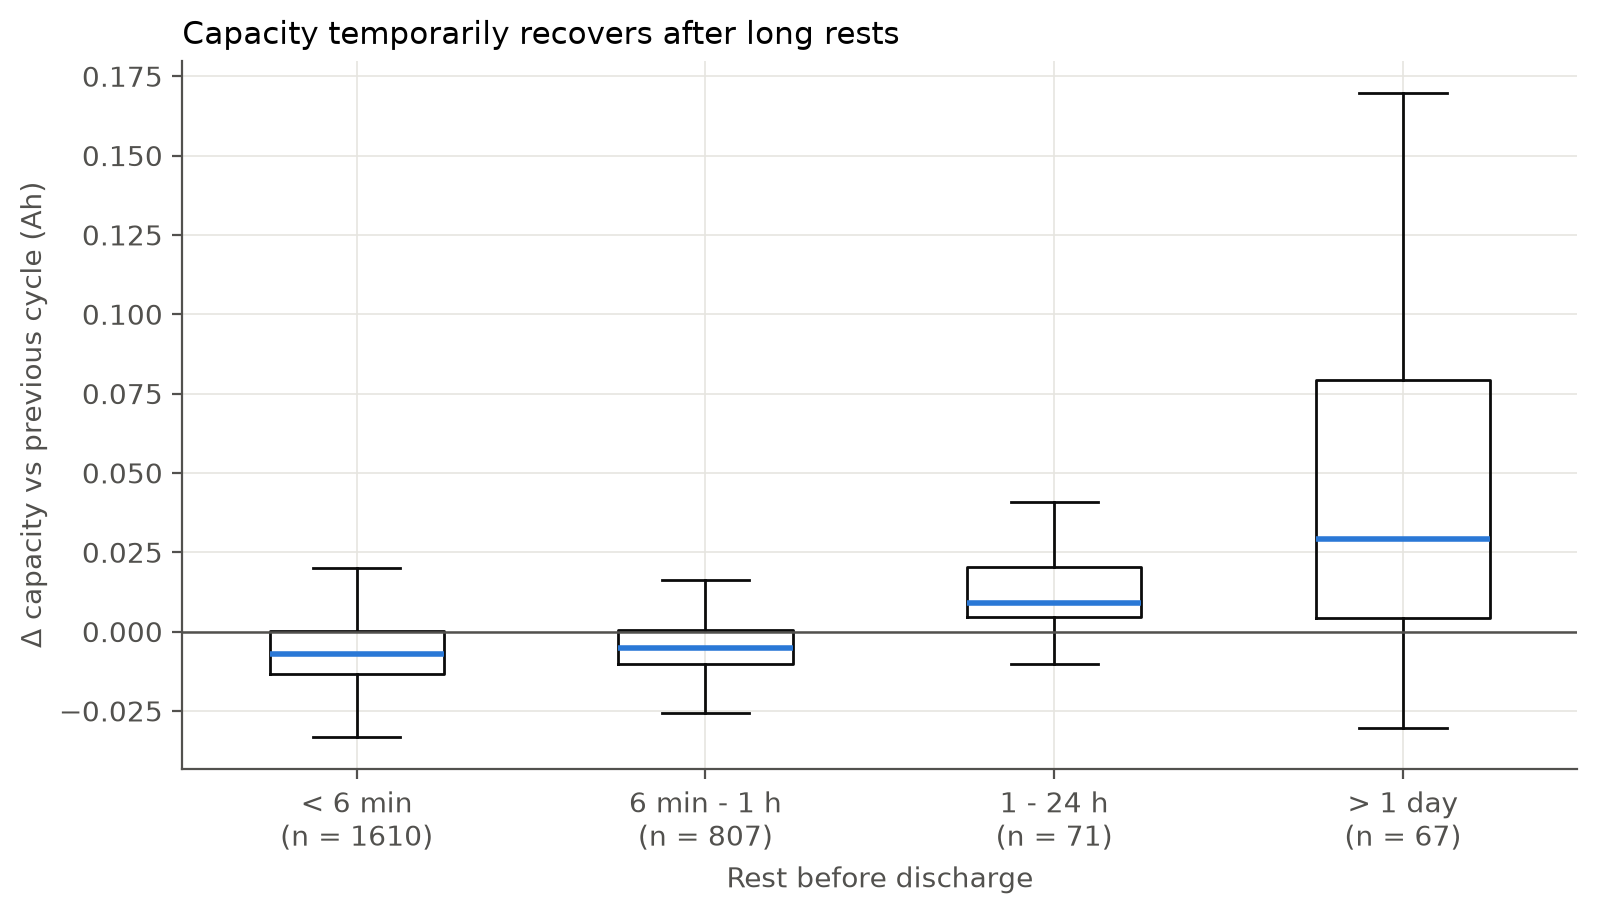
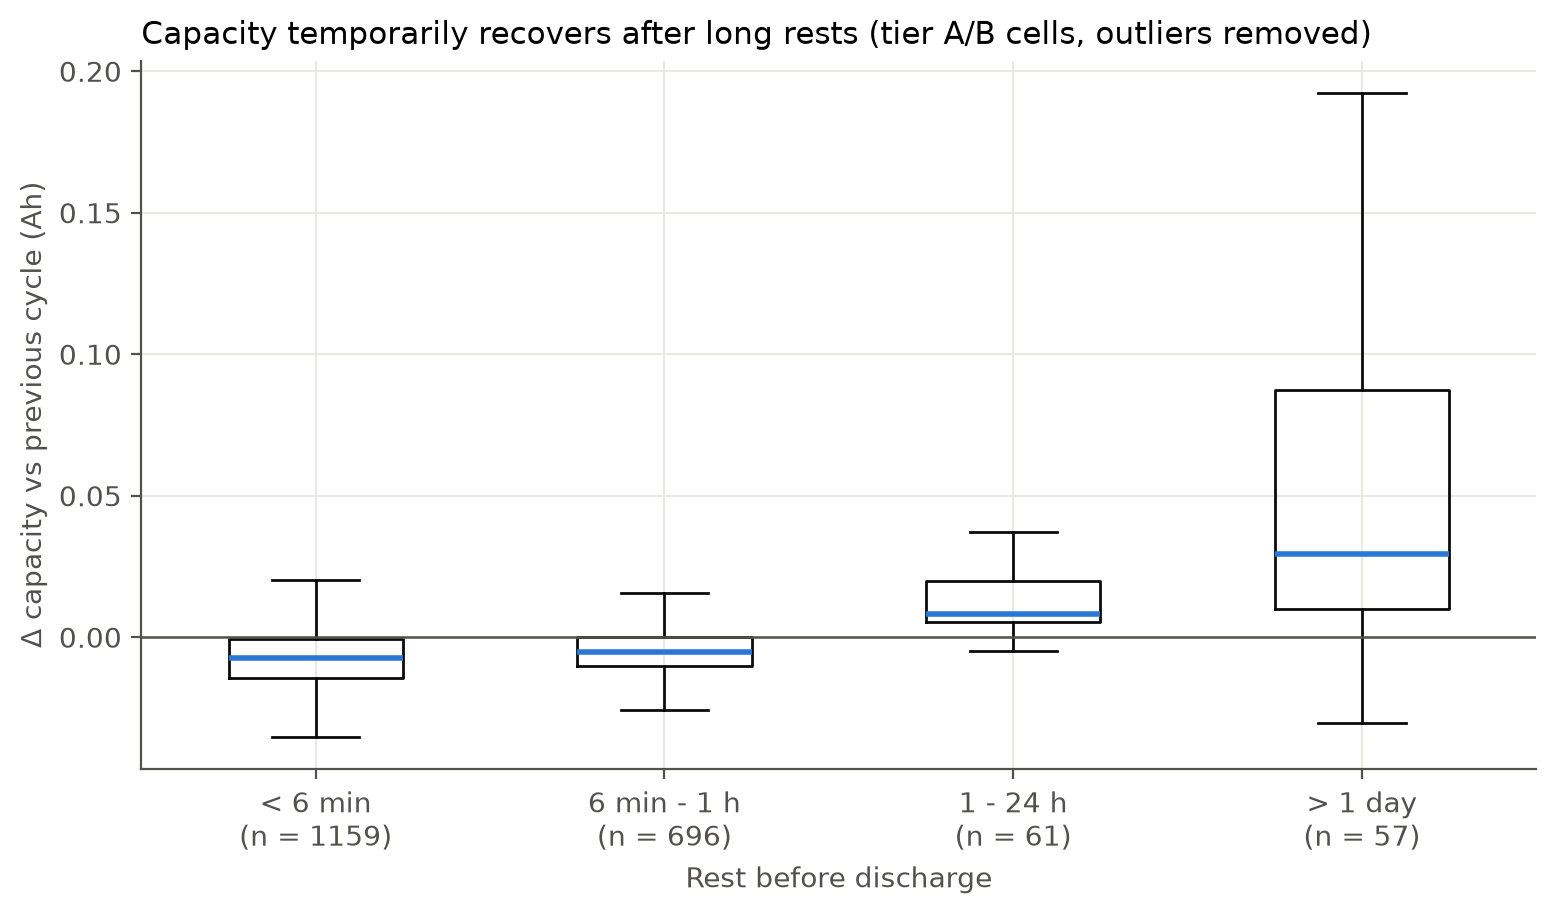
fix(eda): restrict rest-recovery figure to tier A/B cells

diff --git a/src/make_report_figures.py b/src/make_report_figures.py
@@ -75,8 +75,12 @@ def fig2_capacity_definition(c):
 
 
 def fig3_rest_recovery(c):
-    """Capacity change from the previous valid discharge of the same cell and condition, by rest length."""
-    d = c[~c.cap_outlier].sort_values(["battery_id", "segment", "cycle_valid"]).copy()
+    """Capacity change from the previous valid discharge of the same cell and condition, by rest length.
+
+    Sample = tier A/B cells without cap_outlier rows, the definition of the F5 table in
+    docs/Introduction_of_dataset.md.
+    """
+    d = c[c.tier.isin(["A", "B"]) & ~c.cap_outlier].sort_values(["battery_id", "segment", "cycle_valid"]).copy()
     d["delta"] = d.groupby(["battery_id", "segment"]).capacity_int_Ah.diff()
     d = d.dropna(subset=["delta"])
     bins, labels = [0, 0.1, 1, 24, np.inf], ["< 6 min", "6 min - 1 h", "1 - 24 h", "> 1 day"]
@@ -88,7 +92,8 @@ def fig3_rest_recovery(c):
     ax.set_xticks(range(1, 5), [f"{lab}\n(n = {len(x)})" for lab, x in zip(labels, groups)])
     ax.axhline(0, color=MUTED, lw=0.9)
     ax.set(xlabel="Rest before discharge", ylabel="Δ capacity vs previous cycle (Ah)")
-    ax.set_title("Capacity temporarily recovers after long rests", loc="left", fontsize=11)
+    ax.set_title("Capacity temporarily recovers after long rests (tier A/B cells, outliers removed)",
+                 loc="left", fontsize=11)
     save(fig, "fig3_rest_recovery.png")
     return {lab: x.median() for lab, x in zip(labels, groups)}
 
